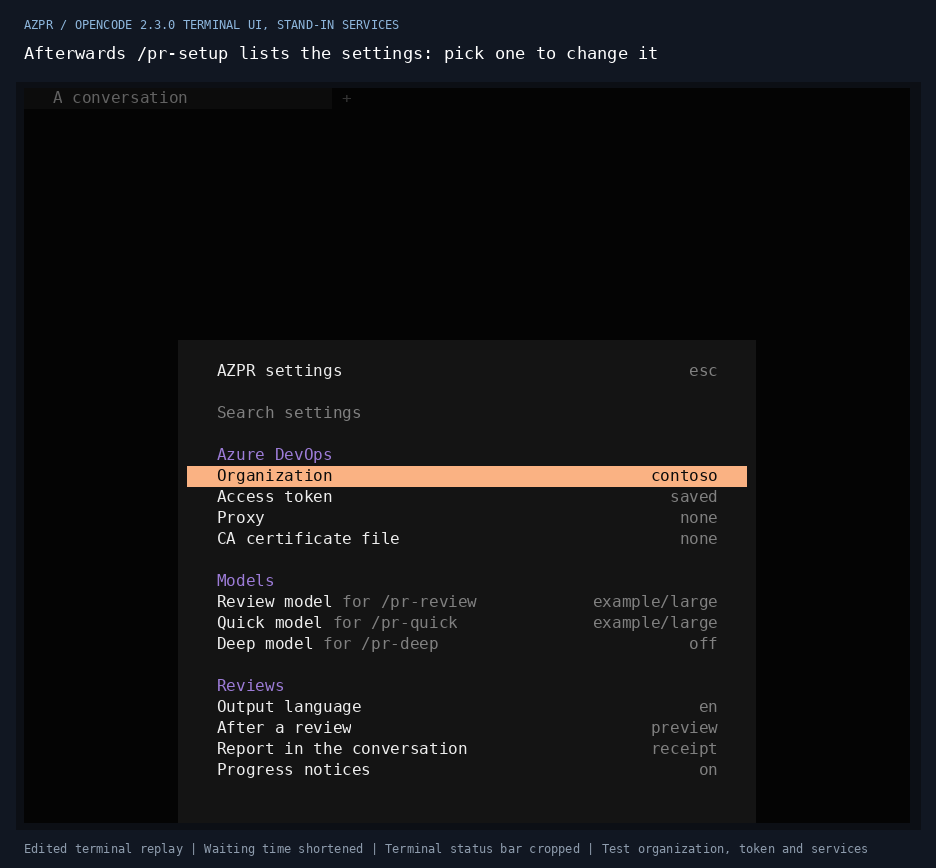
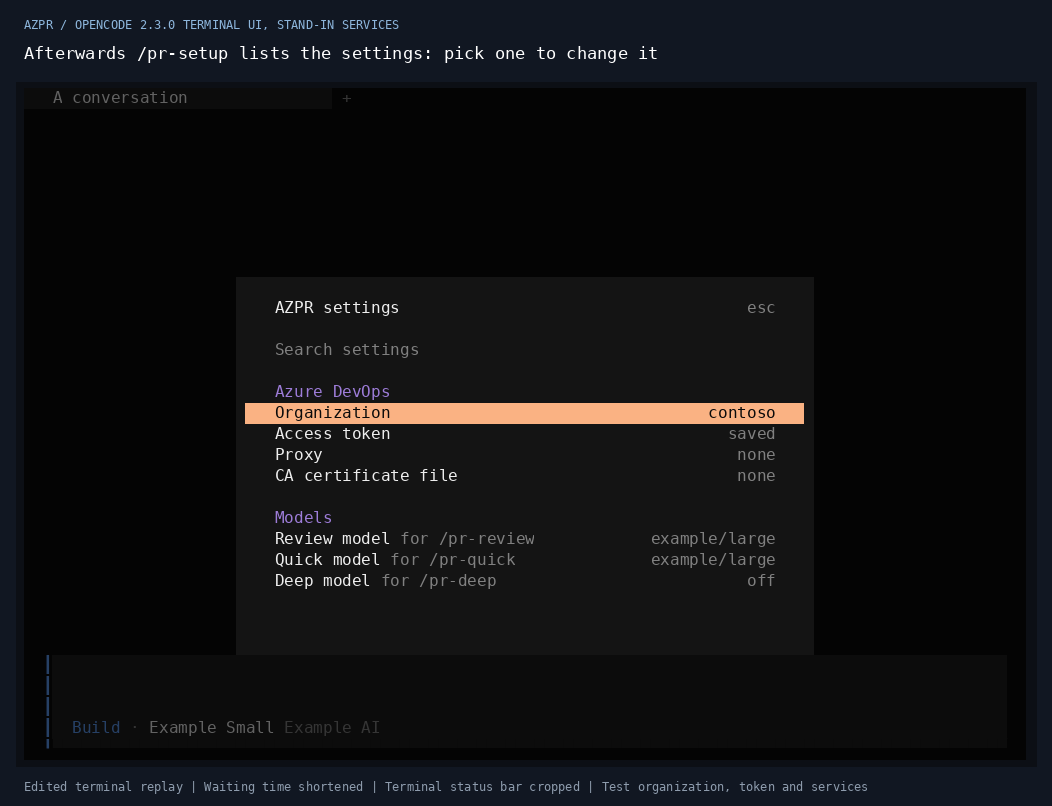
Docs: picture the settings list in a whole terminal
The screenshot of the settings list was rendered from a 46-row terminal with
its lowest eleven rows cut off, to fit more of the list: the dialog hung at
the lower edge, most of the picture was empty, the prompt of the terminal UI
was missing, and the line under the picture named only the status bar as
cropped. It is recorded again in a 104x34 terminal and shows the whole
screen but the status bar, like the frames of the setup recording: the list
through the models, and the prompt below it. The text beside it says that
the list goes on.

diff --git a/README.md b/README.md
@@ -659,7 +659,11 @@ shortened.*
   with the section that describes them all:
   [all settings and defaults](#all-settings-and-defaults).
 
-![/pr-setup lists the settings in groups with their values: organization, access token, proxy and CA certificate file; the review, quick and deep models, each with what it is for; output language, what follows a review, the report in the conversation and progress notices.](docs/assets/setup-settings.png)
+![OpenCode's terminal UI with the list of AZPR's settings open: the organization, the access token, the proxy and the CA certificate file, then the review, quick and deep models, each with what it is for and its value.](docs/assets/setup-settings.png)
+
+*The list goes on below what is shown: the settings of reviews, of the terminal
+UI and of diagnostics, and the settings file. Recorded like the picture above,
+with test values.*
 
 The dialogs only ask. The plugin's server part checks every answer, writes
 the two files, and is the only part that contacts Azure DevOps. Other OpenCode

diff --git a/docs/QUICKSTART.md b/docs/QUICKSTART.md
@@ -95,7 +95,11 @@ list says so. What the list does not hold is in the settings file it names;
 [all settings and defaults](../README.md#all-settings-and-defaults) describes
 each one.
 
-![/pr-setup lists the settings in groups with their values: organization, access token, proxy and CA certificate file; the review, quick and deep models, each with what it is for; output language, what follows a review, the report in the conversation and progress notices.](assets/setup-settings.png)
+![OpenCode's terminal UI with the list of AZPR's settings open: the organization, the access token, the proxy and the CA certificate file, then the review, quick and deep models, each with what it is for and its value.](assets/setup-settings.png)
+
+*The list goes on below what is shown: the settings of reviews, of the terminal
+UI and of diagnostics, and the settings file. Recorded like the picture above,
+with test values.*
 
 ## 4. Check access without a model request (OpenCode)
 
